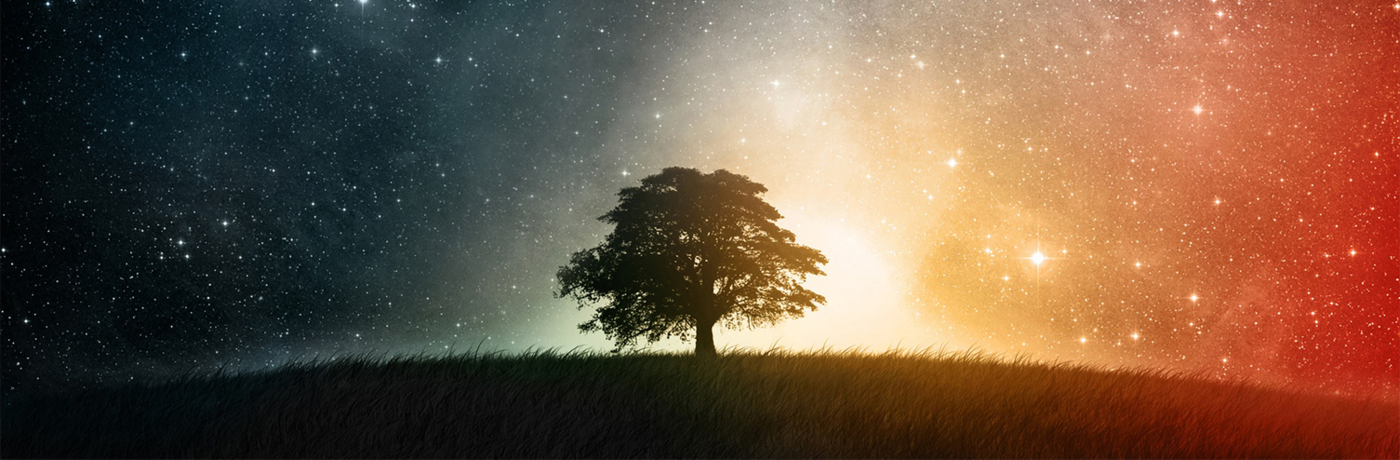
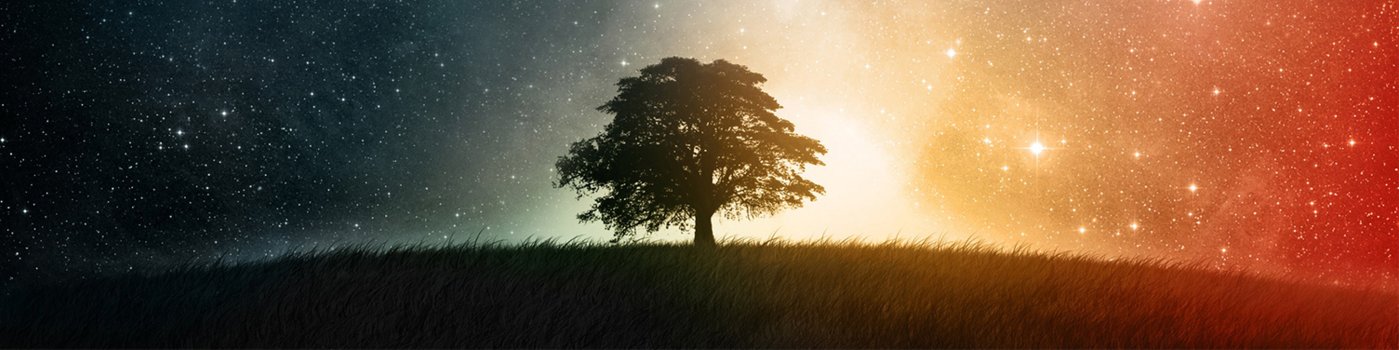
Finished above-the-fold for mobile and desktop

diff --git a/resources/css/styles.css b/resources/css/styles.css
@@ -1,22 +1,22 @@
 /*
  * General Styles
  */
-ol.list-inline {
+
+ol, ul {
     margin: 0;
     padding:0;
-}
-ol.list-inline li {
-    display: inline-block;
 }
 
 /*
  * Top Bar
  */
+
 #top-bar {
-    padding: 5px;
+    padding: 25px;
     background-color: #F6F6F6;
-    border-top: 3px solid #54B0DC;
+    border-top: 4px solid #54B0DC;
     border-bottom: 1px solid #E6E4E4;
+    text-align: center;
 }
 #top-bar a.location-link:link,
 #top-bar a.location-link:hover,
@@ -24,7 +24,7 @@ ol.list-inline li {
 #top-bar a.location-link:visited {
     color: #C4C4C4;
     text-decoration: none;
-    font-size: 20px;
+    font-size: 30px;
     margin-right: 20px;
 }
 #top-bar a.social-link:link,
@@ -33,55 +33,191 @@ ol.list-inline li {
 #top-bar a.social-link:visited {
     color: #F6F6F6;
     border-radius: 100%;
-    width: 23px;
-    height: 23px;
+    width: 30px;
+    height: 30px;
     text-align: center;
     display: inline-block;
-    line-height: 26px;
-    margin-top: 5px;
+    line-height: 32px;
+    margin-top: 15px;
     background-color: #85B2C6;
     text-decoration: none;
-    font-size: 13px;
+    font-size: 19px;
     margin-left: 10px;
 }
+#contact-navigation ol li,
+#social-media-navigation ol li {
+    display: inline-block;
+}
+
 /*
- * Navigation
+ * Navigation Section
  */
+
 #navigation-wrapper {
-    line-height: 120px;
+    padding-top: 20px;
+    line-height: 60px;
+}
+#navigation-wrapper #navigation {
+    display: none;
+}
+#navigation-wrapper #logo-link:link,
+#navigation-wrapper #logo-link:hover,
+#navigation-wrapper #logo-link:active,
+#navigation-wrapper #logo-link:visited {
+    text-decoration: none;
+}
+#navigation-wrapper nav ol li {
+    display: block;
 }
 #navigation-wrapper nav ol li a:link,
 #navigation-wrapper nav ol li a:hover,
 #navigation-wrapper nav ol li a:active,
 #navigation-wrapper nav ol li a:visited {
     color: #717171;
-    display: inline-block;
-    min-width: 70px;
+    display: block;
     text-align: center;
     text-decoration: none;
+    border-bottom: 3px solid rgba(0,0,0,0.1);
+    font-size: 20px;
+    text-transform: uppercase;
 }
 #navigation-wrapper nav ol li a.active-link,
 #navigation-wrapper nav ol li a:hover {
-    border-bottom: 4px solid #287199;
+    border-bottom: 3px solid #287199;
     color: #444;
 }
-#navigation-wrapper nav ol li a.search-link,
-#navigation-wrapper nav ol li a.search-link:hover {
-    border-bottom: none;
+#mobile-nav-toggle-wrapper {
+    float: right;
+}
+#mobile-nav-toggle-wrapper a.toggle-nav:link,
+#mobile-nav-toggle-wrapper a.toggle-nav:hover,
+#mobile-nav-toggle-wrapper a.toggle-nav:active,
+#mobile-nav-toggle-wrapper a.toggle-nav:visited {
+    font-size: 40px;
+    text-decoration: none;
+    color: #3891C0;
 }
 img#navigation-shadow {
-    margin: 0 auto;
-    display: block;
-    margin-bottom: -40px;
-    position: relative;
-    opacity: 0.3;
-    width: 100%;
-    height: 40px;
+    display: none;
 }
+
 /*
  * Banner Section
  */
-#banner img.slide-background {
-    width: 100%;
-    height: auto;
+
+#banner {
+    display: none;
+}
+
+/*
+ * Desktop Responsive Styles
+ */
+
+@media(min-width: 768px) {
+
+    /*
+     * Top Bar Section
+     */
+
+    #top-bar {
+        padding: 5px;
+    }
+    #top-bar #contact-navigation {
+        float: left;
+    }
+    #top-bar #social-media-navigation {
+        float: right;
+    }
+    #top-bar a.location-link:link,
+    #top-bar a.location-link:hover,
+    #top-bar a.location-link:active,
+    #top-bar a.location-link:visited {
+        font-size: 20px;
+    }
+    #top-bar a.social-link:link,
+    #top-bar a.social-link:hover,
+    #top-bar a.social-link:active,
+    #top-bar a.social-link:visited {
+        width: 23px;
+        height: 23px;
+        line-height: 26px;
+        margin-top: 5px;
+        font-size: 13px;
+    }
+
+    /*
+     * Navigation Section
+     */
+
+    #mobile-nav-toggle-wrapper {
+        display: none;
+    }
+    #navigation-wrapper #navigation {
+        display: block;
+    }
+    #navigation-wrapper {
+        line-height: 120px;
+        padding-top: 0;
+    }
+    #navigation-wrapper nav {
+        float: right;
+    }
+    #navigation-wrapper nav ol li {
+        display: inline-block;
+    }
+    #navigation-wrapper nav ol li a:link,
+    #navigation-wrapper nav ol li a:hover,
+    #navigation-wrapper nav ol li a:active,
+    #navigation-wrapper nav ol li a:visited {
+        min-width: 70px;
+        font-size: 18px;
+        text-transform: none;
+        border-bottom-color: rgba(0,0,0,0);
+    }
+    #navigation-wrapper nav ol li a.active-link,
+    #navigation-wrapper nav ol li a:hover {
+        border-bottom-width: 4px;
+        border-bottom-color: #287199;
+    }
+    #navigation-wrapper nav ol li a.search-link,
+    #navigation-wrapper nav ol li a.search-link:hover {
+        border-bottom: none;
+    }
+    img#navigation-shadow {
+        margin: 0 auto;
+        display: block;
+        margin-bottom: -40px;
+        position: relative;
+        opacity: 1;
+        width: 100%;
+        height: 40px;
+    }
+
+    /*
+     * Banner Section
+     */
+
+    #banner {
+        display: inherit;
+    }
+    #banner img.slide-background {
+        width: 100%;
+        height: auto;
+        opacity: 1;
+    }
+
+}
+
+/*
+ * Responsive design for smaller desktops or tablets
+ */
+
+@media(max-width: 992px) {
+    #navigation-wrapper nav ol li a:link,
+    #navigation-wrapper nav ol li a:hover,
+    #navigation-wrapper nav ol li a:active,
+    #navigation-wrapper nav ol li a:visited {
+        font-size: 16px;
+        min-width: 50px;
+    }
 }

diff --git a/index.html b/index.html
@@ -11,14 +11,14 @@
 
 <body>
 
-    <header>
+    <header aria-label="Page Header">
         <!--Top Bar-->
         <div id="top-bar">
             <div class="container">
                 <div class="row">
                     <div class="col-xs-12 col-md-6">
-                        <nav aria-label="Contact Navigation">
-                            <ol class="list-inline">
+                        <nav aria-label="Contact Navigation" id="contact-navigation">
+                            <ol>
                                 <li><a href="#" class="location-link" aria-label="Contact Us"><i class="fa fa-envelope"></i></a></li>
                                 <li><a href="#" class="location-link" aria-label="Find Us"><i class="fa fa-map-marker"></i></a></li>
                                 <li><a href="#" class="location-link" aria-label="More Options"><i class="fa fa-bars"></i></a></li>
@@ -26,13 +26,13 @@
                         </nav>
                     </div>
                     <div class="col-xs-12 col-md-6">
-                        <nav aria-label="Social Media Navigation">
-                            <ol class="list-inline pull-right">
+                        <nav aria-label="Social Media Navigation" id="social-media-navigation">
+                            <ol>
                                 <li><a href="#" class="social-link" aria-label="Follow us on Facebook"><i class="fa fa-facebook"></i></a></li>
                                 <li><a href="#" class="social-link" aria-label="Follow us on Twitter"><i class="fa fa-twitter"></i></a></li>
                                 <li><a href="#" class="social-link" aria-label="Follow us on LinkedIn"><i class="fa fa-linkedin"></i></a></li>
                                 <li><a href="#" class="social-link" aria-label="Follow us on Google Plus"><i class="fa fa-google-plus"></i></a></li>
-                                <li><a href="#" class="social-link" aria-label="Connect with us on Skype"><i class="fa fa-skype"></i></a></li>
+                                <li><a href="#" class="social-link" aria-label="Connect us on Skype"><i class="fa fa-skype"></i></a></li>
                             </ol>
                         </nav>
                     </div>
@@ -44,12 +44,17 @@
         <div id="navigation-wrapper">
             <div class="container">
                 <div class="row">
-                    <div class="col-xs-12 col-md-6">
-                        <img src="resources/images/intrepid-logo.png" id="logo" alt="Intrepid">
+                    <div class="col-xs-12 col-md-3">
+                        <a href="#" id="logo-link">
+                            <img src="resources/images/intrepid-logo.png" id="logo" alt="Intrepid">
+                        </a>
+                        <span id="mobile-nav-toggle-wrapper">
+                            <a href="#" class="toggle-nav"><i class="fa fa-bars"></i></a>
+                        </span>
                     </div>
-                    <div class="col-xs-12 col-md-6">
+                    <div class="col-xs-12 col-md-9">
                         <nav id="navigation" aria-label="Site Navigation">
-                            <ol class="list-inline pull-right">
+                            <ol class="list-inline">
                                 <li><a href="#" class="active-link">Home</a></li>
                                 <li><a href="#">Pages</a></li>
                                 <li><a href="#">Blog</a></li>
@@ -70,16 +75,23 @@
         </div>
     </header>
 
-    <section aria-label="Content">
+    <main aria-label="Page Content">
         <div class="container">
 
         </div>
-    </section>
+    </main>
 
-    <footer aria-label="Footer">
+    <footer aria-label="Page Footer">
 
     </footer>
 
+    <!--Import jQuery Library-->
+    <script
+            src="https://code.jquery.com/jquery-3.3.1.min.js"
+            integrity="sha256-FgpCb/KJQlLNfOu91ta32o/NMZxltwRo8QtmkMRdAu8="
+            crossorigin="anonymous"></script>
+    <!--Import Theme Script-->
+    <script src="resources/js/theme.js"></script>
 </body>
 
 </html>

diff --git a/resources/js/theme.js b/resources/js/theme.js
@@ -1,0 +1,21 @@
+(function($,window,undefined) {
+
+    let mobileNavToggle = $('.toggle-nav');
+    let navigation = $('#navigation');
+
+    function toggleNav() {
+        navigation.slideToggle();
+    }
+
+    function resetNavState() {
+        if (window.innerWidth >= 768) {
+            navigation.show();
+        } else {
+            navigation.hide();
+        }
+    }
+
+    $(window).resize(resetNavState);
+    mobileNavToggle.on('click', toggleNav);
+
+})(jQuery,window);
